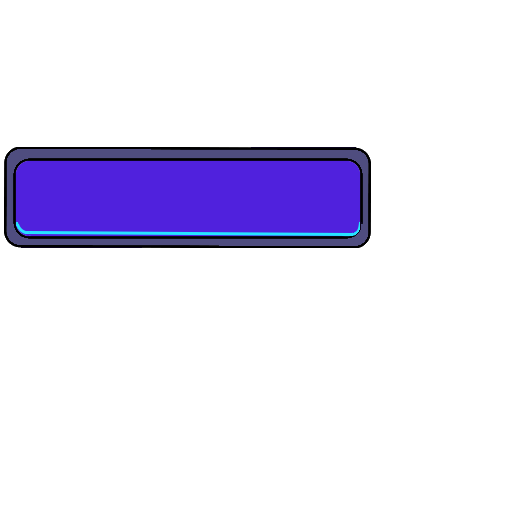
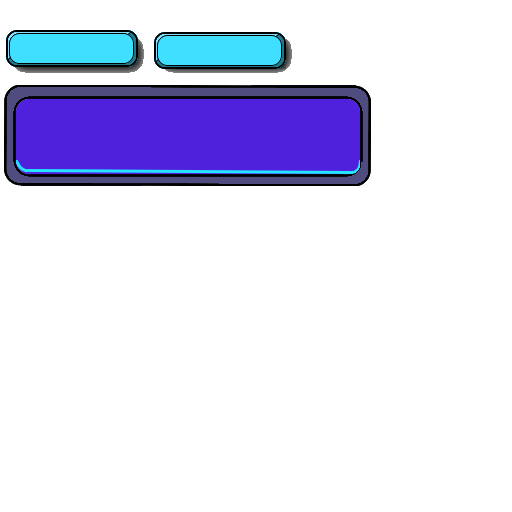
radio buttons, restyled buttons

Changed region(s): [[0.0, 0.0312, 0.75, 0.5]]

diff --git a/core/src/main/java/com/monstrous/bridgebuilder/GUI.java b/core/src/main/java/com/monstrous/bridgebuilder/GUI.java
@@ -74,13 +74,15 @@ public class GUI implements Disposable {
         Table screenTable = new Table();
         screenTable.setFillParent(true);
 
+
+
         // Material buttons (these should act as radio buttons and highlight the selected one)
         //
         deckButton = new TextButton("Deck", skin);
         deckButton.addListener(new ChangeListener() {
             public void changed(ChangeEvent event, Actor actor) {
                 gameScreen.setBuildMaterial(BuildMaterial.DECK);
-                deckButton.setChecked(true);
+                //deckButton.setChecked(true);
             }
         });
 
@@ -88,7 +90,7 @@ public class GUI implements Disposable {
         woodButton.addListener(new ChangeListener() {
             public void changed(ChangeEvent event, Actor actor) {
                 gameScreen.setBuildMaterial(BuildMaterial.WOOD);
-                woodButton.setChecked(true);
+                //woodButton.setChecked(true);
             }
         });
 
@@ -96,7 +98,7 @@ public class GUI implements Disposable {
         steelButton.addListener(new ChangeListener() {
             public void changed(ChangeEvent event, Actor actor) {
                 gameScreen.setBuildMaterial(BuildMaterial.STEEL);
-                steelButton.setChecked(true);
+                //steelButton.setChecked(true);
             }
         });
 
@@ -107,6 +109,11 @@ public class GUI implements Disposable {
             }
         });
 
+
+        ButtonGroup<TextButton> buttonGroup = new ButtonGroup(deckButton, woodButton, steelButton, cableButton);
+        buttonGroup.setMinCheckCount(1);
+        buttonGroup.setMaxCheckCount(1);
+        buttonGroup.setUncheckLast(true);
 
         // button toggles between Edit mode and Run mode
         modeButton = new TextButton("Go!", skin, "big");
